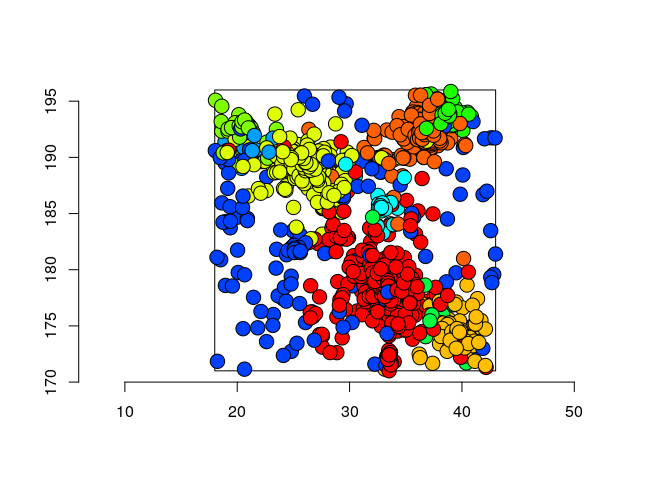
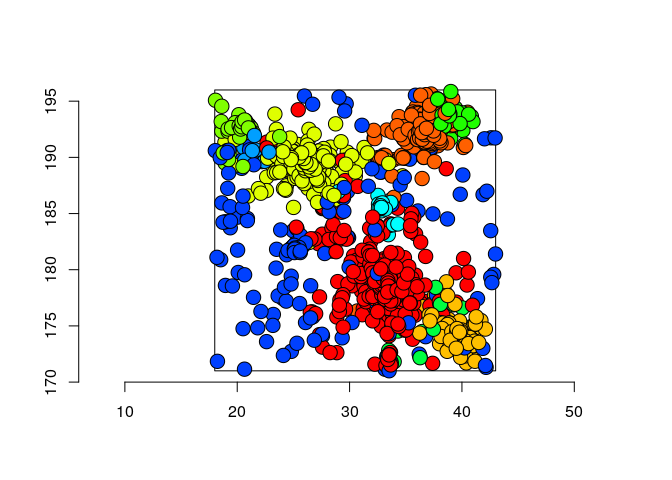
Aesthetic changes to the profile plot in execution example
- Revert some changes to darkmix.R so that the profile plot appears in notebook execution
- Change no. of bins in profile plot in notebook
- Update the docs accordingly

diff --git a/docs/source/darkmix_steps.md b/docs/source/darkmix_steps.md
@@ -162,9 +162,9 @@ given component together with the full model and the single component
 estimations. For example, for component 4:
 
     comp <- 4
-    profiles <- plot.profile(param, param2, clust, comp, xlim=c(0.1,40), nbin=60, flag.legend=TRUE)
+    profiles <- plot.profile(param, param2, clust, comp, xlim=c(0.1,40), nbin=25, flag.legend=TRUE)
 
-    ## Warning in xy.coords(x, y, xlabel, ylabel, log): 1 y value <= 0 omitted from
-    ## logarithmic plot
+    ## Warning in cbind(emp.pro, comp.pro[, 2], mm.pro[, 2]): number of rows of result
+    ## is not a multiple of vector length (arg 3)
 
 ![](darkmix_steps_files/figure-markdown_strict/unnamed-chunk-16-1.png)

diff --git a/docs/source/darkmix_steps.rst b/docs/source/darkmix_steps.rst
@@ -204,10 +204,10 @@ estimations. For example, for component 4:
 ::
 
     comp <- 4
-    profiles <- plot.profile(param, param2, clust, comp, xlim=c(0.1,40), nbin=60, flag.legend=TRUE)
+    profiles <- plot.profile(param, param2, clust, comp, xlim=c(0.1,40), nbin=25, flag.legend=TRUE)
 
-    ## Warning in xy.coords(x, y, xlabel, ylabel, log): 1 y value <= 0 omitted from
-    ## logarithmic plot
+    ## Warning in cbind(emp.pro, comp.pro[, 2], mm.pro[, 2]): number of rows of result
+    ## is not a multiple of vector length (arg 3)
 
 .. figure:: darkmix_steps_files/figure-markdown_strict/unnamed-chunk-16-1.png
    :alt: 
